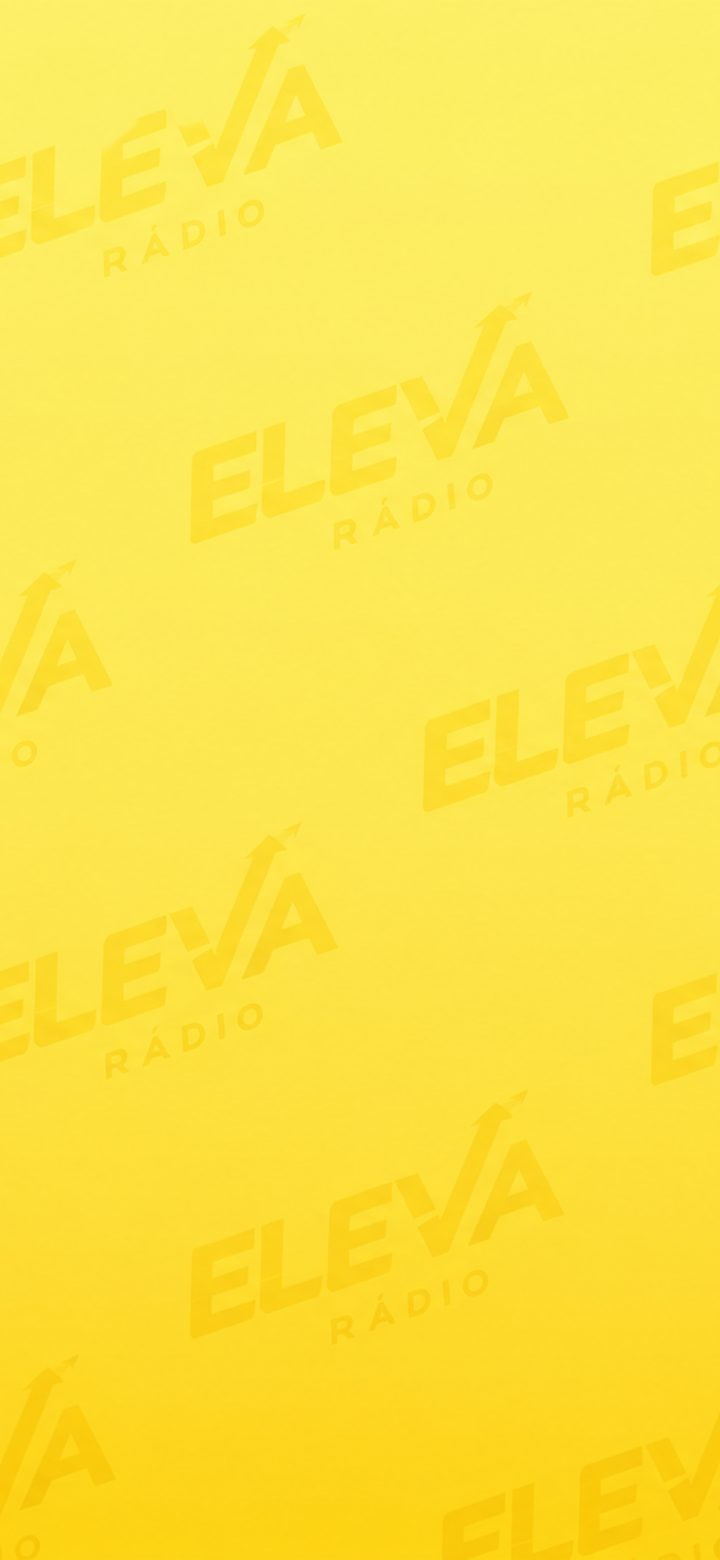
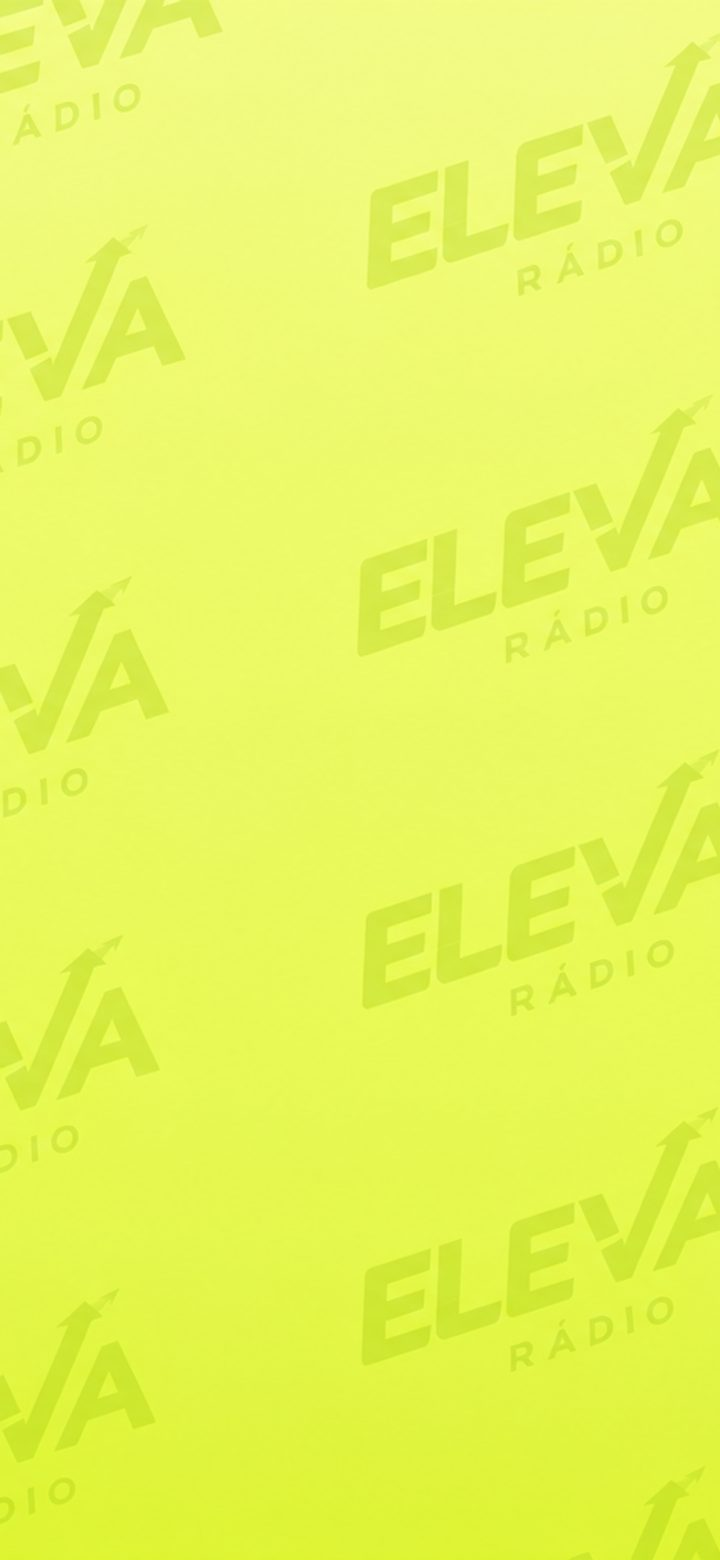
Add files via upload

diff --git a/lib/paginas/home_page.dart b/lib/paginas/home_page.dart
@@ -120,7 +120,7 @@ class _HomePageState extends State<HomePage> {
                 ),
                 color: CoresEleva.escuro
                     ? const Color(0xFF2E105A)
-                    : const Color(0xFFFCE345),
+                    : const Color(0xFFE6F65A),
                 borderRadius:
                     BorderRadius.vertical(top: Radius.circular(24)),
                 border: Border.all(
